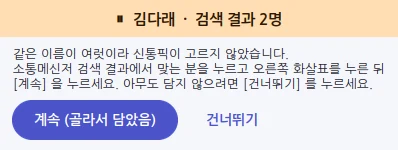
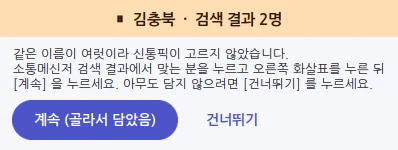
예시 이름 김다래를 김충북으로 바꿈 (랜딩페이지 캡처, 테스트, 스모크)
실명이라 가상 이름으로 교체. 동명이인 고르기 창 캡처도 다시 찍어 박음.

Claude-Session: https://claude.ai/code/session_01Sk7kyiaXENxoDWVejMMMRC

Changed region(s): [[0.3618, 0.08, 0.4523, 0.1867]]

diff --git a/index.html b/index.html
@@ -800,7 +800,7 @@
               맞는 분을 직접 골라 화살표를 누른 뒤 [계속] 을 누르세요. 아무도 담지 않으려면 [건너뛰기] 를 누르면 됩니다.</div>
             <figure class="shot dlg" style="max-width:398px;">
               <div class="frame"><img data-shot="sotong_pick.webp" width="398" height="150"
[2 lines of base64/hex data omitted]
               <figcaption>신통픽이 고르지 않고 사람에게 맡깁니다.</figcaption>
             </figure>
           </div>

diff --git a/tests/test_reconcile.py b/tests/test_reconcile.py
@@ -157,7 +157,7 @@ class MessengerCompareTest(unittest.TestCase):
 
     ROWS = ['이경숙 [교사(초등)] [1학년] 안전/통학버스, 도서',
             '문유리 [부장교사] [전담] 교무, 생활교육(202,310)',
-            '김다래 [교사(초등)] [3학년] 연구학력 (303)']
+            '김충북 [교사(초등)] [3학년] 연구학력 (303)']
 
     def item(self, org, name):
         return {'org': org, 'name': name}
@@ -174,38 +174,38 @@ class MessengerCompareTest(unittest.TestCase):
         result = reconcile.compare_with_messenger(items, self.ROWS)
         self.assertEqual([i['name'] for i in result.inside], ['이경숙', '문유리'])
         self.assertEqual([i['name'] for i in result.missing], ['나상연'])
-        self.assertEqual(len(result.extra), 1, '김다래는 소통메신저에만 있다')
+        self.assertEqual(len(result.extra), 1, '김충북는 소통메신저에만 있다')
         self.assertEqual(result.rows, 3)
 
     def test_same_name_in_two_schools_is_not_guessed(self):
-        """소통메신저에는 학교가 안 나온다. 김다래가 한 명뿐이면 어느 학교 사람인지 모른다."""
-        items = [self.item('가초등학교', '김다래'), self.item('나초등학교', '김다래')]
+        """소통메신저에는 학교가 안 나온다. 김충북가 한 명뿐이면 어느 학교 사람인지 모른다."""
+        items = [self.item('가초등학교', '김충북'), self.item('나초등학교', '김충북')]
         result = reconcile.compare_with_messenger(items, self.ROWS)
         self.assertEqual(result.inside, [])
         self.assertEqual(result.missing, [])
         name, people, have = result.unsure[0]
-        self.assertEqual((name, len(people), have), ('김다래', 2, 1))
+        self.assertEqual((name, len(people), have), ('김충북', 2, 1))
 
     def test_partly_in_same_names_are_marked_next_to_each_name(self):
         """동명이인 둘 중 하나만 들어 있으면 이름마다 'N명 중 X명만 들어감' 을 붙인다."""
-        items = [self.item('가초등학교', '김다래'), self.item('나초등학교', '김다래'),
+        items = [self.item('가초등학교', '김충북'), self.item('나초등학교', '김충북'),
                  self.item('학성초등학교', '이경숙')]
         result = reconcile.compare_with_messenger(items, self.ROWS)
         text = reconcile.compare_text(result)
         self.assertIn('[동명이인 확인 필요]  2명', text)
-        self.assertIn('가초등학교 김다래  (동명이인 2명 중 1명만 들어감, 확인 필요)', text)
-        self.assertIn('나초등학교 김다래  (동명이인 2명 중 1명만 들어감, 확인 필요)', text)
+        self.assertIn('가초등학교 김충북  (동명이인 2명 중 1명만 들어감, 확인 필요)', text)
+        self.assertIn('나초등학교 김충북  (동명이인 2명 중 1명만 들어감, 확인 필요)', text)
 
     def test_all_same_names_in_is_not_a_problem(self):
-        rows = self.ROWS + ['김다래 [교사(초등)] [5학년]']
-        items = [self.item('가초등학교', '김다래'), self.item('나초등학교', '김다래')]
+        rows = self.ROWS + ['김충북 [교사(초등)] [5학년]']
+        items = [self.item('가초등학교', '김충북'), self.item('나초등학교', '김충북')]
         result = reconcile.compare_with_messenger(items, rows)
         self.assertEqual(len(result.inside), 2)
         self.assertEqual(result.unsure, [])
         self.assertNotIn('동명이인', reconcile.compare_text(result))
 
     def test_note_counts_the_same_person_once(self):
-        people = [self.item('가초', '김다래'), self.item('가초', '김다래'), self.item('나초', '김다래')]
+        people = [self.item('가초', '김충북'), self.item('가초', '김충북'), self.item('나초', '김충북')]
         self.assertEqual(reconcile.same_name_note(people, 1),
                          '동명이인 2명 중 1명만 들어감, 확인 필요')
 

diff --git a/tests/test_app_flow.py b/tests/test_app_flow.py
@@ -1128,7 +1128,7 @@ class AppFlowTest(unittest.TestCase):
     def _run_one(self, count, choice='continue'):
         """한 사람을 돌린다. 검색 결과가 count 명이고, 멈추면 choice 를 고른다."""
         m = self.app_module
-        item = {'org': '', 'name': '김다래'}
+        item = {'org': '', 'name': '김충북'}
         self.app.names_list = [item]
         self.app.stop_flag.clear()
         manual = self.app.config.data.get('manual_confirm')
@@ -1162,7 +1162,7 @@ class AppFlowTest(unittest.TestCase):
     def test_several_results_pause_instead_of_clicking_the_first(self):
         """검색 결과가 둘이면 첫 사람을 누르지 않는다. 엉뚱한 사람이 들어갈 수 있다."""
         item, asked, clicked = self._run_one(2)
-        self.assertEqual(asked, [('김다래', 2)])
+        self.assertEqual(asked, [('김충북', 2)])
         clicked.assert_not_called()
         self.assertTrue(item.get('added'))
 
@@ -1202,13 +1202,13 @@ class AppFlowTest(unittest.TestCase):
         m = self.app_module
         items = [{'org': '학성초등학교', 'name': '이경숙'},
                  {'org': '학성초등학교', 'name': '나상연'},
-                 {'org': '가초', 'name': '김다래'}, {'org': '나초', 'name': '김다래'}]
+                 {'org': '가초', 'name': '김충북'}, {'org': '나초', 'name': '김충북'}]
         result = reconcile.compare_with_messenger(
-            items, ['이경숙 [교사(초등)]', '김다래 [교사(초등)]'])
+            items, ['이경숙 [교사(초등)]', '김충북 [교사(초등)]'])
         added = []
         window = m.MessengerCompareReport(_Widget(), result, 4, on_add=added.append)
-        # 빠진 나상연 + 누가 들어갔는지 모르는 김다래 둘
-        self.assertEqual([i['name'] for i in window.addable], ['나상연', '김다래', '김다래'])
+        # 빠진 나상연 + 누가 들어갔는지 모르는 김충북 둘
+        self.assertEqual([i['name'] for i in window.addable], ['나상연', '김충북', '김충북'])
         window._add()
         self.assertEqual(added, [window.addable])
 
@@ -1510,18 +1510,18 @@ class AppFlowTest(unittest.TestCase):
         """명단에도 이름 옆에 '동명이인 N명 중 X명만 들어감, 확인 필요' 가 붙는다."""
         from ui_helpers import format_item_label
         m = self.app_module
-        items = [{'org': '가초등학교', 'name': '김다래', 'added': True},
-                 {'org': '나초등학교', 'name': '김다래', 'added': True}]
+        items = [{'org': '가초등학교', 'name': '김충북', 'added': True},
+                 {'org': '나초등학교', 'name': '김충북', 'added': True}]
         self.app.names_list = items
         try:
             with patch.object(self.app, '_read_messenger_selected',
-                              return_value=(['김다래 [교사(초등)] [3학년]'], '')), \
+                              return_value=(['김충북 [교사(초등)] [3학년]'], '')), \
                     patch.object(m, 'MessengerCompareReport'):
                 self.app._compare_with_messenger()
             note = '동명이인 2명 중 1명만 들어감, 확인 필요'
             self.assertEqual([i['failure_reason'] for i in items], [note, note])
             self.assertFalse(any(i.get('added') for i in items))
-            self.assertEqual(format_item_label(items[0]), f'[가초등학교]  김다래  ({note})')
+            self.assertEqual(format_item_label(items[0]), f'[가초등학교]  김충북  ({note})')
         finally:
             self.app.names_list = []
 

diff --git a/tests/test_automation.py b/tests/test_automation.py
@@ -192,7 +192,7 @@ def real_messenger_nodes():
             f'조직도{k}[교사(초등)]')
     add(doc, 50020, (x0 + 339, y0 + 60, x0 + 450, y0 + 78), '선택된 사용자')
     box = add(doc, 50025, (x0 + 339, y0 + 83, x0 + 615, y0 + 383))
-    names = ['문유리 [부장교사]', '이경숙 [교사(초등)]', '김다래 [교사(초등)]',
+    names = ['문유리 [부장교사]', '이경숙 [교사(초등)]', '김충북 [교사(초등)]',
              '나상연 [교사(초등)]', '함봉주 [교사(초등)]', '이정훈 [교사(초등)]',
              '송동석 [교사(초등)]']
     for k, name in enumerate(names):
@@ -230,7 +230,7 @@ class RealMessengerTest(unittest.TestCase):
         nodes = real_messenger_nodes()
         node, kid_type, _count, _off = guess_selected_list(nodes, 1284)
         names = [reconcile.person_name_from_row(t) for t in row_texts(nodes, node['id'], kid_type)]
-        self.assertEqual(names, ['문유리', '이경숙', '김다래', '나상연', '함봉주', '이정훈', '송동석'])
+        self.assertEqual(names, ['문유리', '이경숙', '김충북', '나상연', '함봉주', '이정훈', '송동석'])
 
 
 class SearchCountTest(unittest.TestCase):

diff --git a/tools/smoke_gui.py b/tools/smoke_gui.py
@@ -149,7 +149,7 @@ def main():
     print('소통메신저 비교 창 ok')
 
     # 동명이인 고르기 창
-    app._ask_pick('김다래', 2)
+    app._ask_pick('김충북', 2)
     assert app.pick_window.winfo_exists()
     app.pick_window.destroy()
     print('동명이인 고르기 창 ok')
